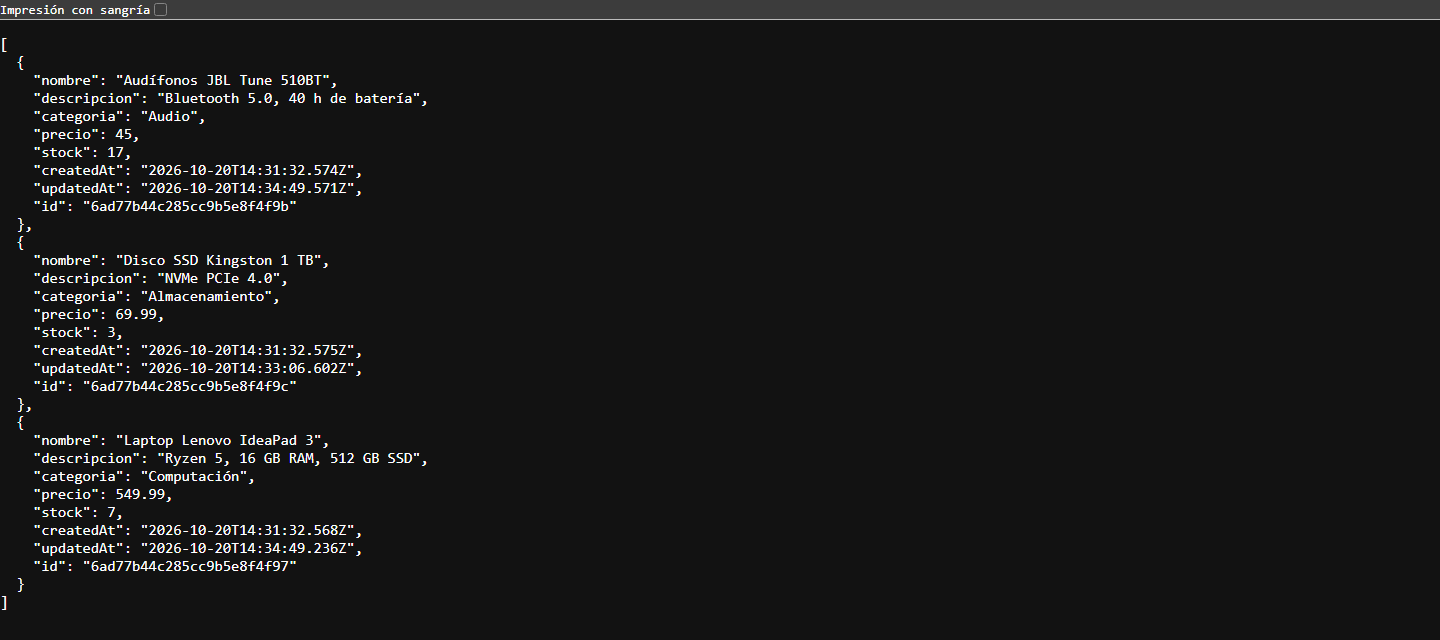
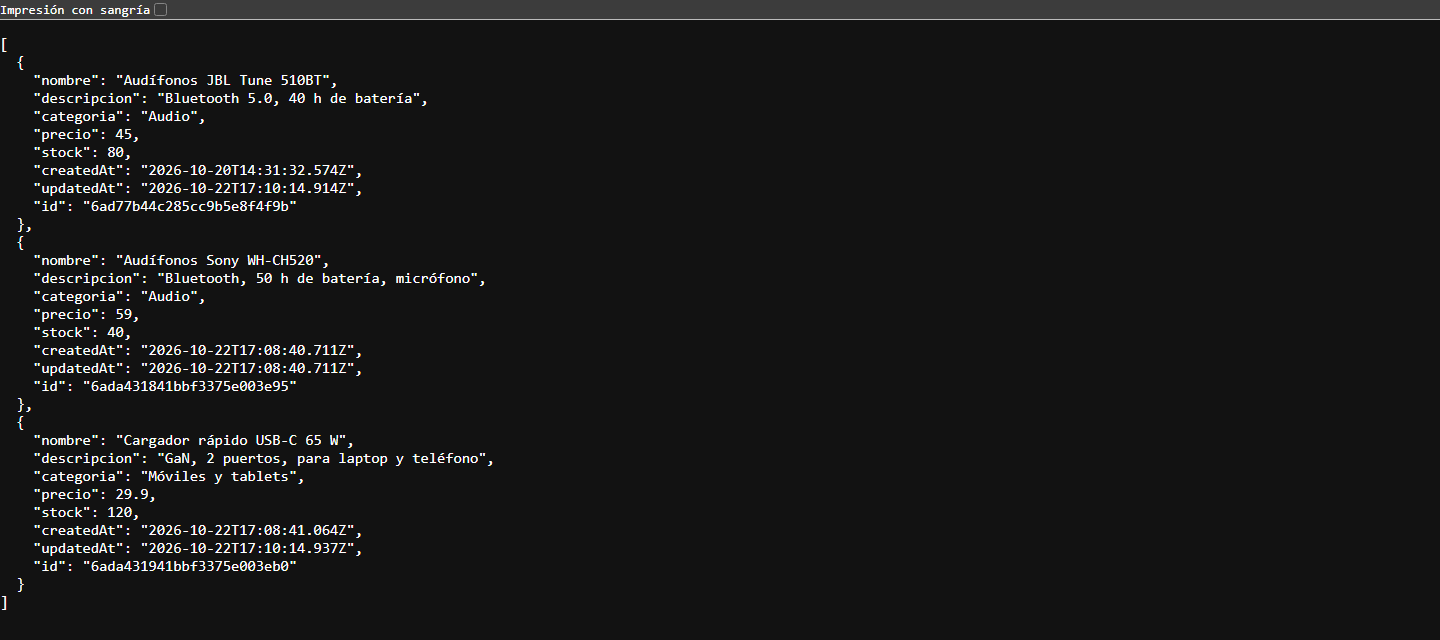
Capturas del cuadro de confirmación y del catálogo ampliado
- 09 y 10: cuadros de confirmación al eliminar un producto y al cancelar un pedido
- 02 y 08: catálogo y respuesta de la API con los 28 productos de ejemplo
- README: añade las dos capturas nuevas

Las capturas usan solo cuentas y datos de demostración.

diff --git a/README.md b/README.md
@@ -27,6 +27,10 @@ Cada parte del sistema es un **microservicio escrito en un lenguaje distinto**, 
 |---|---|
 | ![Usuarios](docs/capturas/05-usuarios-admin.png) | ![Actividad](docs/capturas/06-actividad-admin.png) |
 
+| Confirmación al eliminar (administrador) | Confirmación al cancelar un pedido (cliente) |
+|---|---|
+| ![Confirmar eliminar](docs/capturas/09-confirmar-eliminar.png) | ![Confirmar cancelar](docs/capturas/10-confirmar-cancelar.png) |
+
 **Servicios respondiendo** — Swagger del servicio de usuarios (FastAPI) y respuesta JSON del servicio de productos (Express):
 
 | Swagger — usuarios | API — productos |
